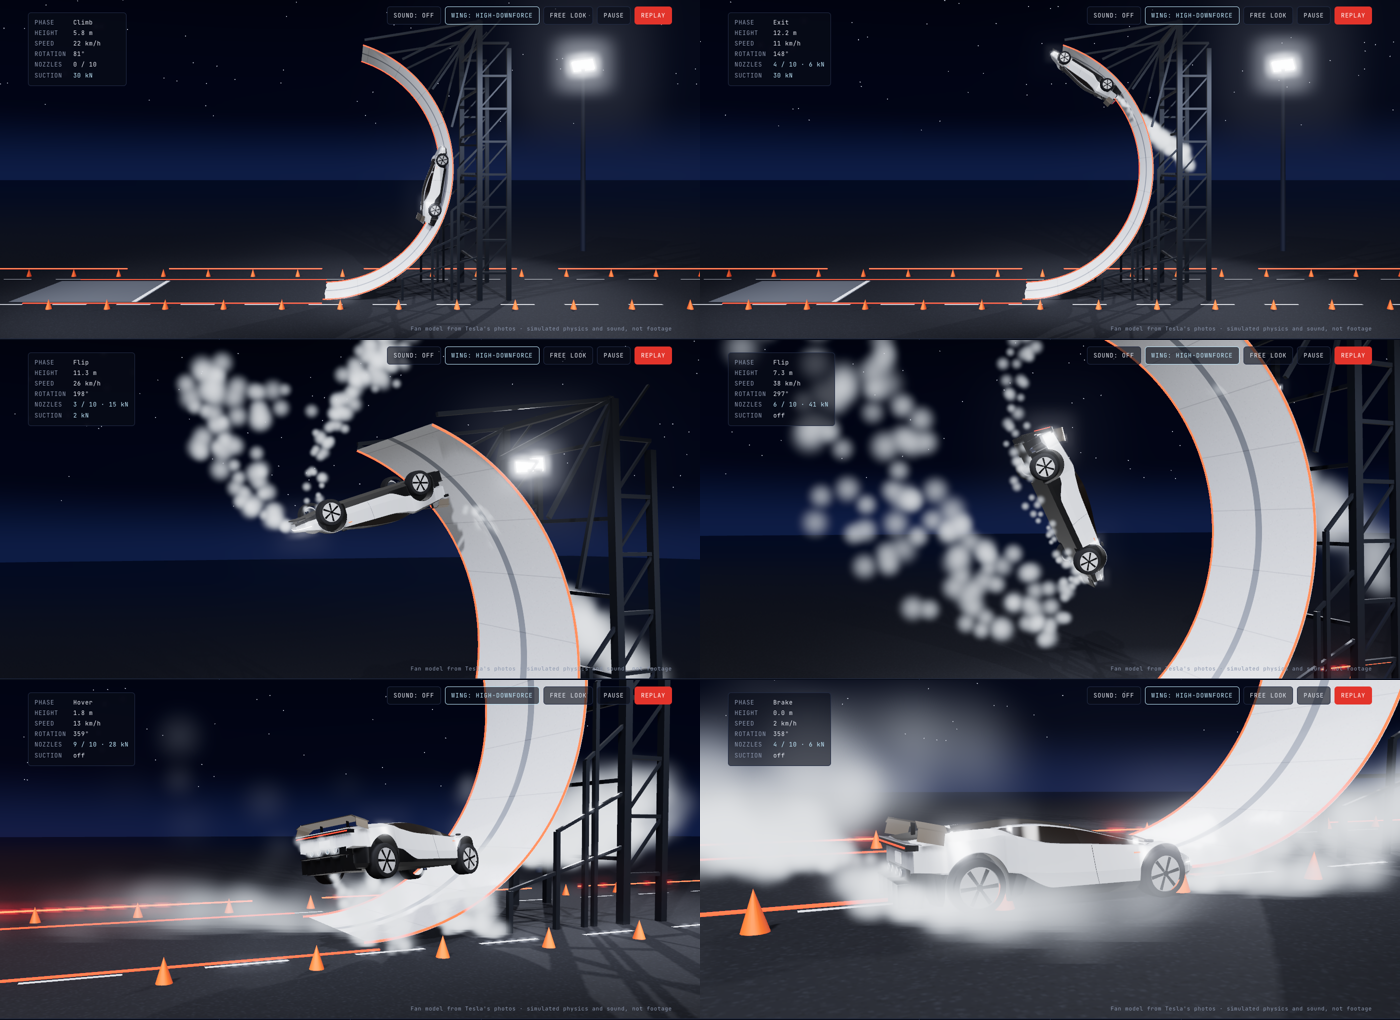
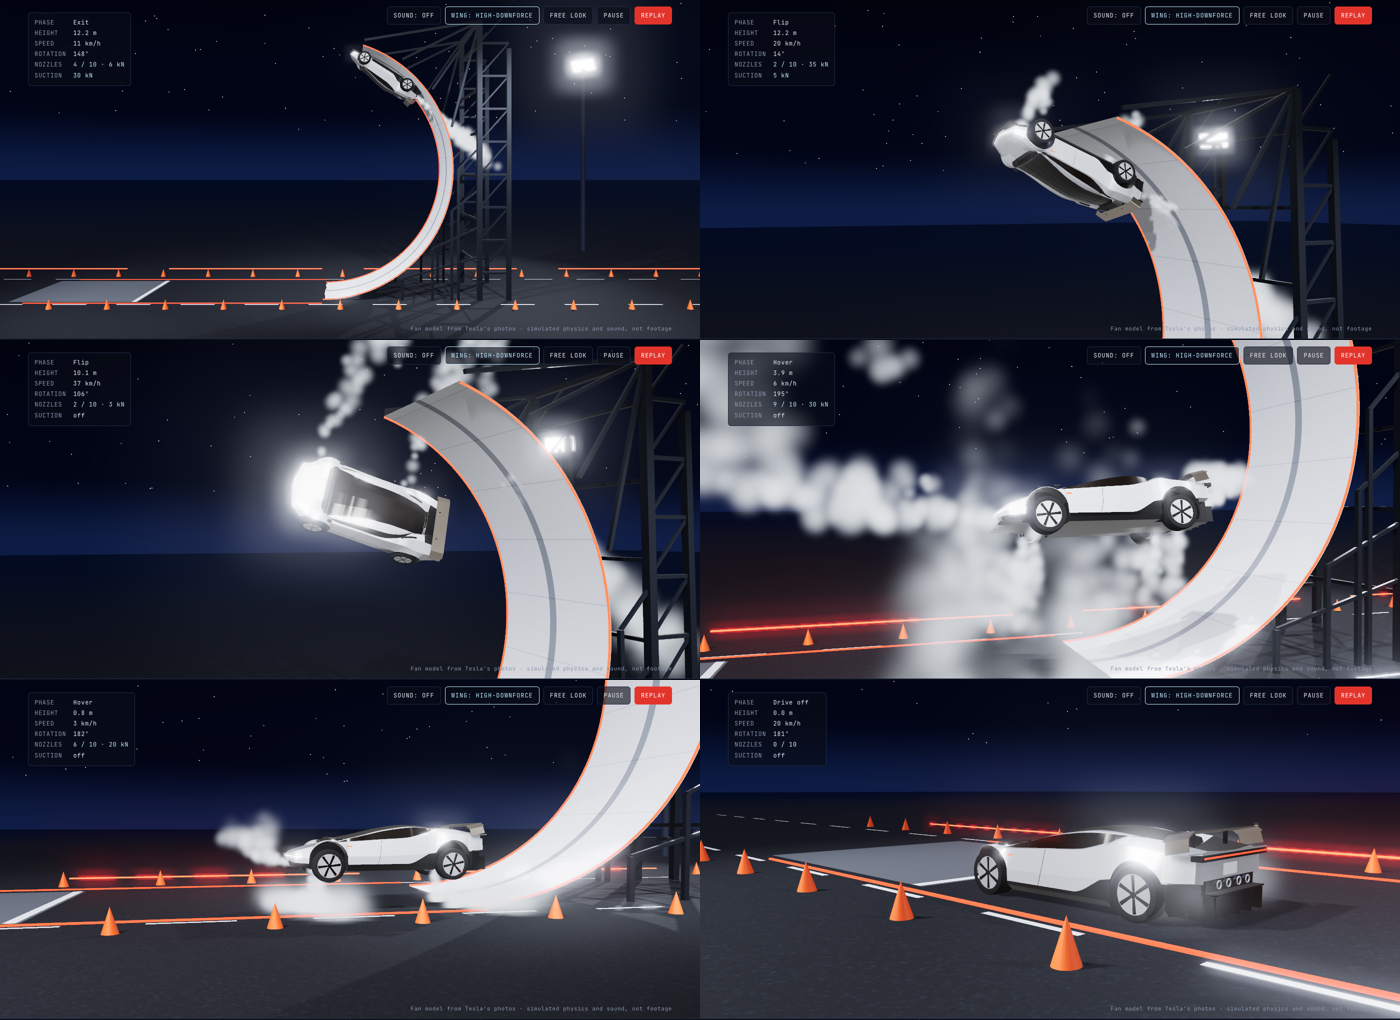
Ramp stunt: x-axis flip past the end of the runway
Past the runway the car now rolls 180° about its own length instead of
pitching end over end, comes up on its wheels facing opposite to the
runway, hovers down to the foot of the ramp and drives away. Adds a
quaternion attitude hold for the hover and test checks for the roll,
the landing attitude and heading, and the drive-away.

diff --git a/index.html b/index.html
@@ -189,7 +189,7 @@ footer p { margin: 0; color: var(--muted); font-size: 13px; max-width: 70ch; }
 <div class="wrap stunts" role="tablist" aria-label="Choose a stunt">
   <span class="label">Choose a stunt</span>
   <button class="tab" type="button" role="tab" data-stunt="jump" aria-selected="true">Lineup jump<small>roll over five cars</small></button>
-  <button class="tab" type="button" role="tab" data-stunt="ramp" aria-selected="false">Ramp hang<small>up the wall, flip, hover down</small></button>
+  <button class="tab" type="button" role="tab" data-stunt="ramp" aria-selected="false">Ramp hang<small>up the wall, x-axis flip, drive away</small></button>
 </div>
 <div class="stage" id="stage">
   <canvas id="scene" aria-label="3D animation: a white roadster fires cold-gas thrusters, rolls upside down over a row of parked cars, a Semi and a Cybertruck at night, and lands." role="img"></canvas>
@@ -247,7 +247,7 @@ footer p { margin: 0; color: var(--muted); font-size: 13px; max-width: 70ch; }
         <li><span class="t">1</span><div><h3>A 1,900 kg body on four springs</h3><p>The car is a rigid body with real inertia for roll, pitch and yaw. Each wheel has its own spring and damper and a tyre that grips up to 1.15 g, so you can see the suspension unload during the spool and compress on landing.</p></div></li>
         <li><span class="t">2</span><div><h3>Ten nozzles, each with its own force</h3><p>Four floor nozzles near the wheel arches (up to 18 kN each), four in the diffuser and two in the nose. Every nozzle pushes at its own position, so firing one side harder spins the car. Valves take about 40 ms to respond.</p></div></li>
         <li><span class="t">3</span><div><h3>A flight computer flies the stunt</h3><p>The car on the night was remote-operated. Here a controller does the job. On the jump it lifts off, rolls 360° along the direction of travel, uses even bursts while the car is on its side to cancel sideways drift, holds the heading with the nose jets, and follows a glide path down to touch the ground at about 2 m/s.</p></div></li>
-        <li><span class="t">4</span><div><h3>The ramp: suction does the climbing</h3><p>Fans under the floor pull the car onto a curved wall with up to 30 kN, 1.6 times its weight. That is enough grip to drive up past vertical and pause upside down at about 12 m. Then, as in Tesla's video, it creeps on with the diffuser jets helping and tips off the top lip upside down. It keeps rotating the way the curve was turning it until it is upright beside the ramp, then hovers slowly down the face on its floor jets, with the diffuser and nose jets holding position, and settles at the foot of the ramp at under 1 m/s.</p></div></li>
+        <li><span class="t">4</span><div><h3>The ramp: suction does the climbing</h3><p>Fans under the floor pull the car onto a curved wall with up to 30 kN, 1.6 times its weight. That is enough grip to drive up past vertical and pause upside down at about 12 m. Then, as in Tesla's video, it creeps on with the diffuser jets helping and tips off the end of the runway upside down. Past the runway it rolls 180° about its own length, an x-axis flip, so it comes up on its wheels facing the opposite way to the runway. It hovers slowly down on its floor jets, with the diffuser and nose jets holding position, settles at the foot of the ramp at under 1 m/s and drives away.</p></div></li>
         <li><span class="t">5</span><div><h3>Sound from the numbers</h3><p>Nothing is recorded. The motor whine follows wheel speed, the hiss and roar follow total thrust, each valve pops as it opens, the fans whine with suction, and landings thump harder the faster the car comes down. Volume and stereo pan follow the camera.</p></div></li>
         <li><span class="t">6</span><div><h3>Track Mode aero</h3><p>The wing button cycles the three modes from Tesla's video. Road stows the wing, High-Downforce raises and pitches it, Low-Drag raises it flat. Each mode changes the downforce in the simulation.</p></div></li>
       </ol>
@@ -705,14 +705,14 @@ car.traverse(o => { if (o.isMesh) { o.castShadow = true; o.receiveShadow = true;
 // Fixed 240 Hz steps. Gravity, tyre grip, suspension, fan suction, aero drag and every nozzle's force and torque are
 // integrated; a scripted flight computer (the car was remote-operated on the night) decides how hard each nozzle fires.
 // Two stunts from the night: "jump" (roll over the lineup) and "ramp" (climb a curved wall on suction, pause upside down,
-// tip off the top lip, flip beside the ramp, hover down its face and land at its foot).
+// tip off the end of the runway, roll 180° about its length to land on the wheels, then drive away).
 function makeRoadsterSim(THREE, C) {
   const V = THREE.Vector3, Q = THREE.Quaternion;
   const M = 1900, g = 9.81, I = new V(820, 3900, 3500);          // kg; roll, yaw, pitch inertia (kg m²)
   const LS0 = 0.10, LFREE = LS0 + (M * g / 4) / 66000, LMAX = LFREE + 0.04, LMIN = 0.025;
   const K = 66000, DAMP = 5600, BUMP = 900000, MU = 1.15, CLAT = 9000;
   const VT = 9.5, SPOOL_AT = C.X_TAKE - 2.0, BURN = C.BURN ?? 0.26, T_ROLL = C.T_ROLL ?? 1.5, ROLL_AT = C.ROLL_AT ?? 0.3;
-  const RAMP = C.ramp, FAN_MAX = 1.6 * M * g, TH_HANG = C.TH_HANG ?? 0.74 * Math.PI, HANG_T = C.HANG_T ?? 1.3, FLIP_W = C.FLIP_W ?? 4.2;
+  const RAMP = C.ramp, FAN_MAX = 1.6 * M * g, TH_HANG = C.TH_HANG ?? 0.74 * Math.PI, HANG_T = C.HANG_T ?? 1.3, T_ROLL_R = C.T_ROLL_R ?? 0.8;
   const DT = 1 / 240;
   const wheels = C.XW.flatMap(x => [1, -1].map(s => ({ hp: new V(x, C.WR - C.COM + LS0, s * C.TRACK_Z), len: LS0, prevLen: LS0, F: 0, spin: 0, contact: false })));
   const noz = C.nozzles.map(n => ({ ...n, T: 0, cmd: 0 }));
@@ -750,6 +750,15 @@ function makeRoadsterSim(THREE, C) {
       }
     }
     return best;
+  }
+  // torque (in the car's frame) that turns it toward a target orientation along the shortest rotation, rate-limited
+  const _qe = new Q(), _qt = new Q(), _qy = new Q(), _ax = new V();
+  function attitude(qT, wMax, kw) {
+    _qe.copy(st.q).invert().multiply(qT);
+    if (_qe.w < 0) _qe.set(-_qe.x, -_qe.y, -_qe.z, -_qe.w);
+    const ang = 2 * Math.acos(Math.min(1, _qe.w)), sn = Math.sqrt(Math.max(1e-9, 1 - _qe.w * _qe.w)), wd = Math.min(wMax, 3.2 * ang);
+    const wb = _Iw.copy(st.w).applyQuaternion(_qi.copy(st.q).invert());
+    return { tx: I.x * kw * (_qe.x / sn * wd - wb.x), ty: I.y * kw * (_qe.y / sn * wd - wb.y), tz: I.z * kw * (_qe.z / sn * wd - wb.z), ang };
   }
   // split a wanted lift and roll / pitch torque across the four floor nozzles (they can only push)
   function allocDown(Tv, tx, tz) {
@@ -830,36 +839,40 @@ function makeRoadsterSim(THREE, C) {
         if (st.contacts === 0) setPhase("Flip"); break;
       }
       case "Flip": {
-        // keep rotating the way the curve was turning the car, round to upright, right beside the ramp. Spinning up and
-        // stopping push opposite ways, so they cancel. Whenever the floor faces the ground the jets carry the weight.
+        // past the end of the runway the car is upside down: roll it 180° about its own length (an x-axis flip), so it
+        // comes up on its wheels facing the way it is moving. Side-on, an even burst cancels sideways drift; once the
+        // floor faces the ground the jets start carrying the weight.
         st.fanCmd = 0;
-        const err = 2 * Math.PI - st.pitch, wWant = Math.max(0.3, Math.min(FLIP_W, 3 * err));
-        const up3 = _a.set(0, 1, 0).applyQuaternion(st.q), vxWant = Math.max(-3, Math.min(3, 0.8 * (RAMP.land - st.pos.x)));
+        if (st.pt < 1e-6) st.flip0 = st.roll;
+        const [d, rate] = profile(st.pt, Math.PI, T_ROLL_R), want = st.flip0 + d;
+        const up3 = _a.set(0, 1, 0).applyQuaternion(st.q);
         let Tv = 0;
         if (up3.y > 0.3) Tv = Math.max(0, M * (g + 6 * (-2.5 - st.vel.y))) / up3.y;
-        else if (Math.abs(up3.x) > 0.55) Tv = Math.max(0, M * 3 * (vxWant - st.vel.x) * Math.sign(up3.x));
-        allocDown(Math.min(Tv, 4 * down[0].Tmax * 0.85), I.x * (-30 * st.roll - 8 * A.wx), I.z * 9 * (wWant - A.wz));
-        yawHold(A, 1);
-        if (err < 0.1) setPhase("Hover");
+        else if (Math.abs(up3.z) > 0.6) Tv = Math.max(0, -M * 4 * (st.vel.z + 0.6 * st.pos.z) * Math.sign(up3.z));
+        allocDown(Math.min(Tv, 4 * down[0].Tmax * 0.7), I.x * (70 * (want - st.roll) + 16 * (rate - A.wx)), I.z * 10 * -A.wz);
+        if (st.pt >= T_ROLL_R && Math.abs(want - st.roll) < 0.12) setPhase("Hover");
         if (wheels.some(w => w.contact)) setPhase("Touchdown"); break;
       }
       case "Hover": {
-        // a slow, level descent down the face of the ramp: the floor jets hold the weight, the diffuser or nose jets
-        // push sideways to hold position over the landing spot at the foot of the ramp
+        // level out facing away from the ramp and hover slowly down; the diffuser or nose jets hold position over the
+        // landing spot at the foot of the ramp
         const h = Math.max(0, st.pos.y - C.COM - 0.1), vWant = -Math.max(0.6, Math.min(2.2, 0.32 * h + 0.4));
+        const leanZ = Math.max(-0.25, Math.min(0.25, -(0.12 * st.pos.z + 0.6 * st.vel.z)));
+        _qt.setFromAxisAngle(_ax.set(1, 0, 0), leanZ).multiply(_qy.setFromAxisAngle(_ax.set(0, 1, 0), Math.PI));
+        const att = attitude(_qt, 3, 8);
         const up = Math.max(0.3, _a.set(0, 1, 0).applyQuaternion(st.q).y);
-        const leanZ = Math.max(-0.25, Math.min(0.25, -(0.12 * st.pos.z + 0.6 * st.vel.z)));   // hold the centreline too
-        allocDown(Math.max(0, M * (g + 8 * (vWant - st.vel.y))) / up, I.x * (35 * (leanZ - st.roll) - 9 * A.wx), pitchT);
+        allocDown(Math.max(0, M * (g + 8 * (vWant - st.vel.y))) / up, att.tx, att.tz);
         const ax = 1.1 * (RAMP.land - st.pos.x) - 1.9 * st.vel.x, along = ax * Math.sign(A.fx || 1);
         if (along > 0) for (const n of rear) n.cmd = Math.min(1, M * along / (4 * n.Tmax));
         else for (const n of front) n.cmd = Math.min(1, M * -along / (2 * n.Tmax));
-        yawHold(A, 1);
+        for (const n of front) n.cmd = Math.max(n.cmd, Math.max(0, Math.min(1, att.ty / (-n.p.z) / n.Tmax)));
         if (wheels.some(w => w.contact)) setPhase("Touchdown"); break;
       }
+      case "Drive off": drive = M * 2.2 * (6 - fwd); if (st.pt > 2.2) setPhase("Brake"); break;
       case "Descend": descend(A, pitchT, 0); break;
     }
     switch (st.phase) {   // shared by both stunts once the car is back on the ground
-      case "Touchdown": allocDown(st.pt < 0.1 ? M * g * 0.6 : 0, 0, pitchT); drive = -M * 2.5 * fwd; if (st.pt > 0.25) setPhase("Brake"); break;
+      case "Touchdown": allocDown(st.pt < 0.1 ? M * g * 0.6 : 0, 0, pitchT); drive = -M * 2.5 * fwd; if (st.pt > 0.25) setPhase(st.scn === "ramp" ? "Drive off" : "Brake"); break;
       case "Brake": drive = -M * 2.5 * fwd; if (st.pt < 0.7) brakeJets(); if (Math.abs(fwd) < 0.12 && st.pt > 0.8) setPhase("Parked"); break;
       case "Parked": drive = -M * 3 * fwd; break;
     }
@@ -1151,7 +1164,8 @@ function simulate(dt) {
   hudPhase.textContent = st.phase;
   hudAlt.textContent = Math.max(0, st.pos.y - COM).toFixed(1) + " m";
   hudSpd.textContent = Math.round(st.vel.length() * 3.6) + " km/h";
-  hudRot.textContent = Math.round((((st.scn === "ramp" ? st.pitch : st.roll) * 180 / Math.PI) % 360 + 360) % 360) + "°";
+  const rampPitch = st.scn === "ramp" && ["Approach", "Fans", "Climb", "Hang", "Exit"].includes(st.phase);   // on the wall it pitches; past the runway it rolls
+  hudRot.textContent = Math.round((((rampPitch ? st.pitch : st.roll) * 180 / Math.PI) % 360 + 360) % 360) + "°";
   hudJets.textContent = on ? `${on} / 10 · ${Math.round(kN)} kN` : "0 / 10";
   hudJets.classList.toggle("on", on > 0);
   hudFan.textContent = st.fan > 0.02 ? Math.round(st.fan * sim.FAN_MAX / 1000) + " kN" : "off";
@@ -1168,7 +1182,7 @@ function shot() {
     case "Climb": case "Exit": wantPos.set(RAMP.cx + 1.5, 7.2, 35); wantLook.set(RAMP.cx + 1.5, 7.2, 0); return;
     case "Hang": wantPos.set(RAMP.cx - 4.5, 1.5, 7.5); wantLook.set(cx, cy - 0.4, 0); return;
     case "Flip": case "Hover": case "Descend": wantPos.set(RAMP.cx - 6, 0.8 + cy * 0.85, 16); wantLook.set(cx - 0.5, cy, cz * 0.5); return;   // tracks down the face, like the close-up in the video
-    case "Touchdown": case "Brake": wantPos.set(cx - 4, 1.6, cz + 8); wantLook.set(cx, 0.7, cz); return;
+    case "Touchdown": case "Drive off": case "Brake": wantPos.set(cx + 6, 1.7, cz + 7); wantLook.set(cx - 1, 0.7, cz); return;
   }
   switch (st.phase) {
     case "Approach": case "Spool": case "Fans": wantPos.set(cx + 3.6, 1.05, cz + 8.2); wantLook.set(cx + 0.6, 0.7, cz); break;

diff --git a/README.md b/README.md
@@ -16,8 +16,9 @@ real-time 3D stunts that are **computed by a physics simulation**, with sound ge
 sedans, a Semi cab, a Cybertruck and a Cybercab, and glides down to land at about 2 m/s.
 
 **Ramp hang.** Suction fans pull the car onto a tall curved wall. It climbs past vertical, pauses upside down
-about 12 m up, creeps onto the top lip and tips off. It keeps rotating until it is upright beside the ramp,
-then hovers slowly down the face on its jets and settles at the foot of the ramp.
+about 12 m up, creeps to the end of the runway and tips off upside down. Past the runway it rolls 180° about
+its own length (an x-axis flip), so it comes up on its wheels facing the opposite way to the runway, hovers slowly
+down on its jets, settles at the foot of the ramp and drives away.
 
 ![The ramp hang, six moments](docs/ramp-hang.png)
 
@@ -53,7 +54,7 @@ Everything runs at a fixed 240 Hz in the browser:
 - **Suction fans.** Up to 1.6 times the car's weight, pulling the floor toward the surface the wheels are on.
 - **Aero.** Drag, plus downforce that depends on the wing mode.
 - **Flight computer.** The car was remote-operated on the night; here a controller flies each stunt phase by phase:
-  roll and flip profiles, heading hold with the nose jets, sideways drift cancelling, a landing glide path and a
+  roll profiles, a quaternion attitude hold, heading hold with the nose jets, sideways drift cancelling, a landing glide path and a
   hover descent.
 
 The sound is synthesised with the Web Audio API from the simulation state: motor whine from wheel speed, tyre
